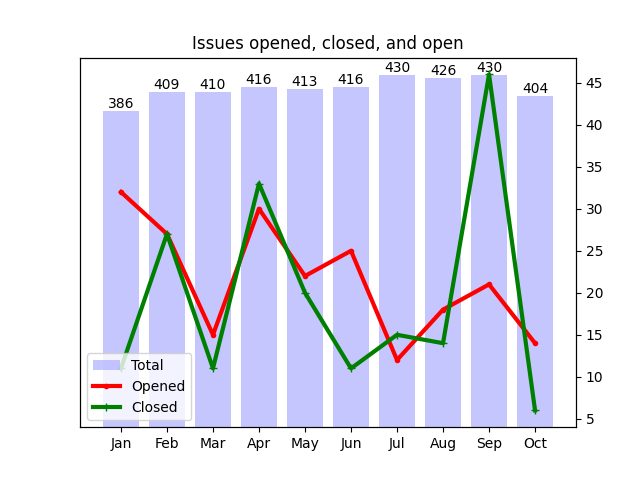
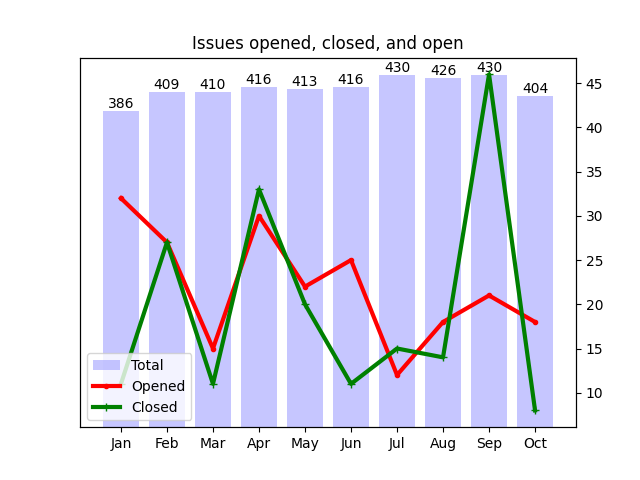
Apply automatic changes

diff --git a/docs/analytics.html b/docs/analytics.html
@@ -114,8 +114,8 @@ td .material-icons { display:inline-flex; vertical-align: top; font-size:1.1rem;
 						</tr>
 						<tr>
 							<td>Oct</td>
-							<td>14</td>
-							<td>6</td>
+							<td>18</td>
+							<td>8</td>
 						</tr>
 					</table>
 				</div>
@@ -163,15 +163,15 @@ td .material-icons { display:inline-flex; vertical-align: top; font-size:1.1rem;
 						</tr>
 						<tr>
 							<td>
-								<a href="http://github.com/notofonts/tirhuta/issues">tirhuta</a>
+								<a href="http://github.com/notofonts/math/issues">math</a>
 							</td>
-							<td>10</td>
+							<td>11</td>
 						</tr>
 						<tr>
 							<td>
-								<a href="http://github.com/notofonts/math/issues">math</a>
+								<a href="http://github.com/notofonts/tirhuta/issues">tirhuta</a>
 							</td>
-							<td>9</td>
+							<td>10</td>
 						</tr>
 						<tr>
 							<td>
@@ -242,7 +242,7 @@ td .material-icons { display:inline-flex; vertical-align: top; font-size:1.1rem;
 				<tr>
 					<td>9</td>
 					<td>
-						<a href="http://github.com/notofonts/math/issues">math</a>,  						<a href="http://github.com/notofonts/syriac/issues">syriac</a> 
+						<a href="http://github.com/notofonts/syriac/issues">syriac</a> 
 					</td>
 				</tr>
 				<tr>
@@ -315,7 +315,7 @@ td .material-icons { display:inline-flex; vertical-align: top; font-size:1.1rem;
 							<td>
 									<a href="http://github.com/notofonts/symbols/issues">symbols</a>: 12, 
 
-									<a href="http://github.com/notofonts/math/issues">math</a>: 9, 
+									<a href="http://github.com/notofonts/math/issues">math</a>: 11, 
 
 									<a href="http://github.com/notofonts/syriac/issues">syriac</a>: 9, 
 
